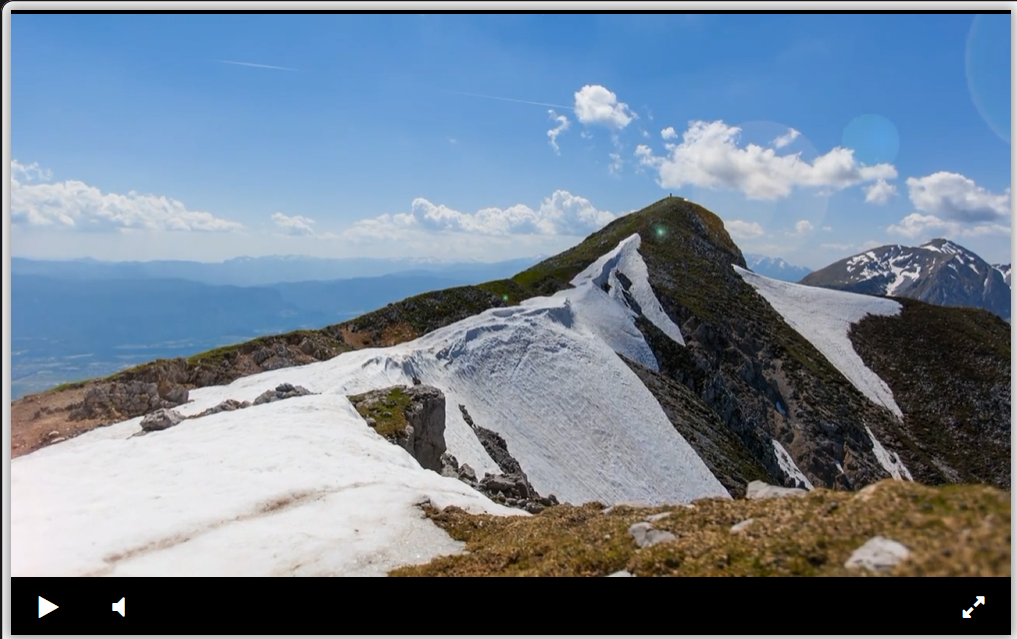
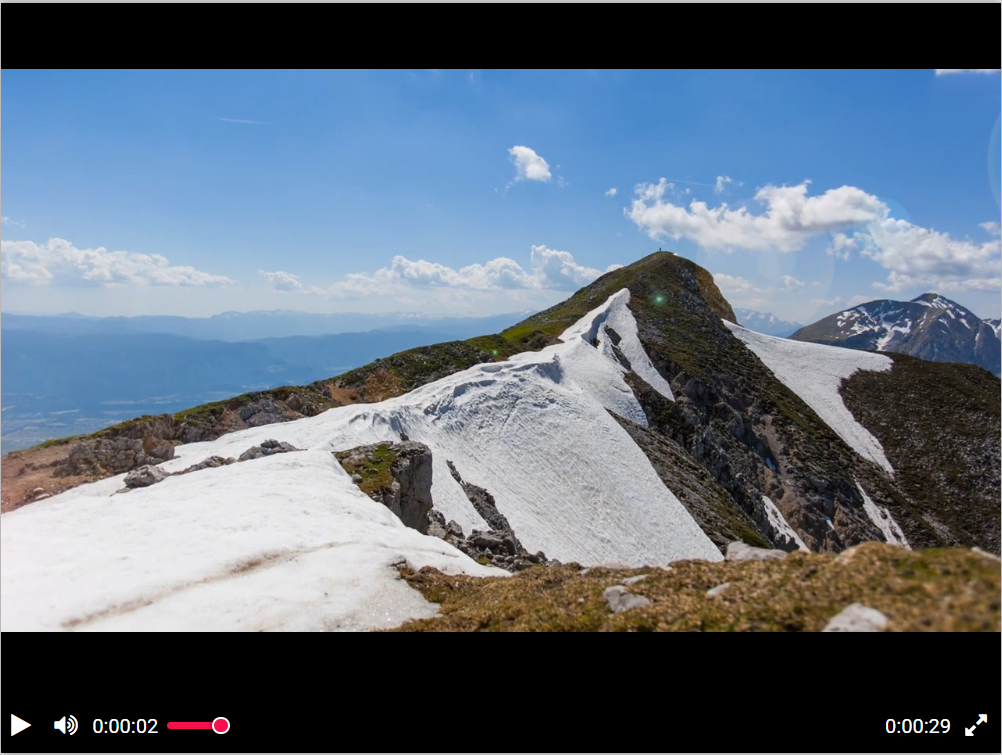
update project documentation and screenshot

diff --git a/README.md b/README.md
@@ -1,24 +1,28 @@
 # Видеоплеер
 
-Учебный проект по вёрстке видеоплеера в рамках курса [Devman](https://dvmn.org/).
+Учебный проект по вёрстке и настройке видеоплеера на курсе [Devman](https://dvmn.org/). Интерфейс выполнен по макету дизайнера: чёрная панель управления, белые иконки и красная полоса воспроизведения.
 
-**[Посмотреть работающий видеоплеер на GitHub Pages](https://suba79.github.io/video_player/)**
+**[Посмотреть видеоплеер на GitHub Pages](https://suba79.github.io/video_player/)**
 
 ## Возможности
 
-- Запуск и остановка видео (Play / Pause).
-- Включение и выключение звука (Mute / Unmute).
-- Просмотр видео в полноэкранном режиме.
-- Панель управления с иконками Font Awesome.
-- Размещение видео и панели управления с помощью CSS Flexbox.
+- Воспроизведение и пауза видео — **Play / Pause**.
+- Включение и выключение звука — **Mute / Unmute**.
+- Отображение текущего времени и общей продолжительности ролика.
+- Перемотка видео с помощью прогрессбара.
+- Круглый ползунок, который движется вместе с прогрессом и плавно появляется при наведении курсора на полосу.
+- Просмотр в полноэкранном режиме.
+- Управление с помощью кнопок Font Awesome; видимый фокус при навигации клавишей `Tab`.
 
-## Скриншот
+## Демо и скриншот
 
-![Внешний вид видеоплеера](screenshots/player.png)
+Откройте [онлайн-версию плеера](https://suba79.github.io/video_player/).
+
+![Скриншот видеоплеера](screenshots/player.png)
 
 ## Как запустить локально
 
-1. Склонируйте репозиторий:
+1. Клонируйте репозиторий:
 
    ```bash
    git clone https://github.com/Suba79/video_player.git
@@ -30,32 +34,36 @@
    cd video_player
    ```
 
-3. Откройте файл `index.html` в браузере. Для локального сервера можно воспользоваться Live Server или Python LiveReload.
+3. Откройте `index.html` в браузере. При желании запустите локальный сервер, например с помощью расширения **Live Server** для VS Code.
 
-> Для загрузки внешних библиотек и видео потребуется подключение к интернету.
+> Для загрузки видео, шрифтов и JavaScript-библиотек требуется интернет. Если плеер не запускается, проверьте доступность внешних ресурсов и ошибки во вкладках **Console** и **Network** инструментов разработчика.
 
-## Использованные технологии
+## Технологии
 
-- HTML5 и CSS3 (Flexbox).
-- JavaScript.
-- [Font Awesome 4.7](https://fontawesome.com/v4/).
-- [jQuery 3.4.1](https://jquery.com/).
-- [Playable 2.10.3](https://wix.github.io/playable/).
-- [Библиотека видеоплеера Devman](https://github.com/devmanorg/video-player-jslib) (`player.js`).
+- **HTML5** — разметка страницы и элементов управления.
+- **CSS3** — Flexbox, стили кнопок, `:hover`, `:focus-visible`, переходы и анимация прозрачности.
+- **JavaScript** — логика работы плеера из [`player.js`](player.js).
+- [Playable 2.10.3](https://wix.github.io/playable/) — библиотека воспроизведения видео.
+- [jQuery 3.4.1](https://jquery.com/) — взаимодействие с элементами страницы.
+- [Font Awesome 4.7](https://fontawesome.com/v4/) — иконки управления.
+- [Google Fonts (Roboto)](https://fonts.google.com/specimen/Roboto) — шрифт таймера.
+
+Для работы использована [библиотека видеоплеера из задания Devman](https://github.com/devmanorg/video-player-jslib). В качестве демонстрации загружается видео с сайта Devman.
 
 ## Структура проекта
 
 ```text
 video_player/
-├── index.html         # Страница видеоплеера
-├── player.js          # Библиотека видеоплеера
-├── search.html        # Учебное упражнение по HTML
+├── index.html          # HTML-разметка и CSS-стили видеоплеера
+├── player.js           # Подключение и управление видеоплеером
+├── favicon.svg         # Иконка сайта
 ├── screenshots/
-│   └── player.png     # Скриншот готового плеера
+│   └── player.png      # Скриншот плеера
+├── search.html         # Отдельное учебное HTML-упражнение
 ├── .gitignore
 └── README.md
 ```
 
 ## Цель проекта
 
-Практика HTML-разметки, CSS-стилей, Flexbox и подключения готовой JavaScript-библиотеки к элементам интерфейса.
+Закрепить навыки HTML, CSS и работы с JavaScript-библиотекой: сверстать элементы по макету, подключить управление видео, реализовать прогрессбар с анимированным ползунком и опубликовать результат на GitHub Pages.
